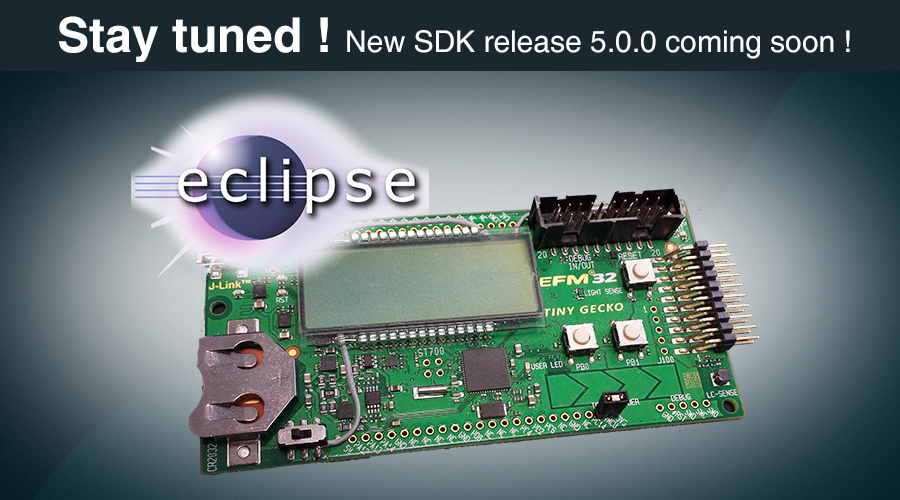
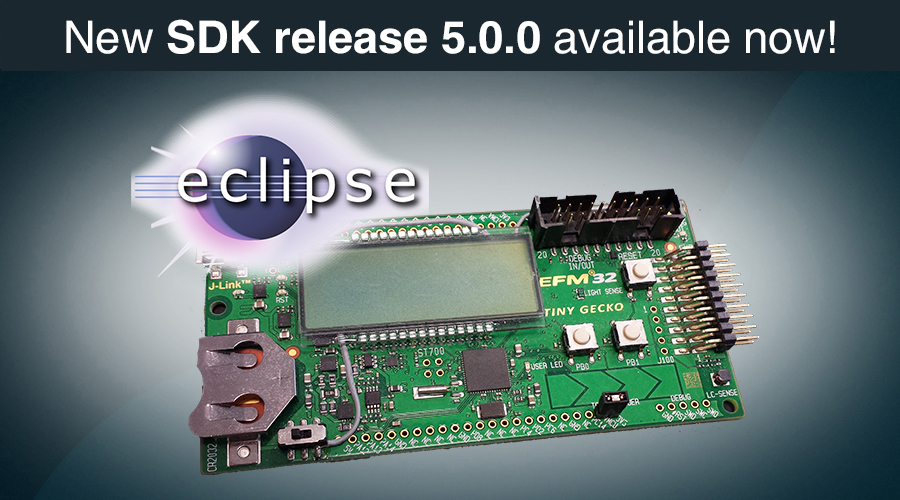
SDK 5.0.0 added

Changed region(s): [[0.0622, 0.03, 0.9644, 0.12]]

diff --git a/index.html b/index.html
@@ -12,18 +12,13 @@ scripts:
             <li data-target="#myCarousel" data-slide-to="0" class="active"></li>
             <li data-target="#myCarousel" data-slide-to="1"></li>
             <li data-target="#myCarousel" data-slide-to="2"></li>
-            <li data-target="#myCarousel" data-slide-to="3"></li>
-<!--            <li data-target="#myCarousel" data-slide-to="3"></li>-->
         </ol>
         <div class="carousel-inner">
-	<div class="item active">
+        	<div class="item active">
                 <img src="../images/carousel-sdk50.jpg" alt="">
-            </div>
-            <div class="item">
-                <img src="../images/carousel-sdk.jpg" alt="">
                 <div class="carousel-caption">
                     <div class="actions text-center">
-                        <a href="/releases/2014/02/25/sdk-400-version-available/index.html"  class="btn btn-large"> New SDK version </a>
+                        <a href="/releases/2014/12/18/sdk-500-version-available/index.html" class="btn btn-primary btn-large"> <i class="icon-large icon-gift"></i> New SDK version <span class="label label-success">New</span> </a>
                     </div>
                 </div>
             </div>
@@ -50,10 +45,10 @@ scripts:
                         TD1204 is the very first SIGFOX™ Gateway Module that integrates a GPS chip and an accelerometer.
                     </p>
                     <div class="actions text-center">
-                        <a href="/cloud-on-chip/td1204/index.html"  class="btn btn-large"><i class="icon-large icon-search"></i> Features <span class="label label-success">New</span> </a>
-                        <a href="/cloud-on-chip/td1204/evb.html"    class="btn btn-success btn-large"><i class="icon-large icon-eye-open"></i> Evaluation Board <span class="label label-success">New</span> </a>
-                        <a href="/cloud-on-chip/td1204/sdk.html"    class="btn btn btn-primary btn-large"><i class="icon-large icon-road"></i> SDK <span class="label label-success">New</span> </a>
-                        <a href="/cloud-on-chip/td1204/download.html"    class="btn btn-warning btn-large"><i class="icon-large icon-download"></i> Resources <span class="label label-success">New</span> </a>
+                        <a href="/cloud-on-chip/td1204/index.html"  class="btn btn-large"><i class="icon-large icon-search"></i> Features </a>
+                        <a href="/cloud-on-chip/td1204/evb.html"    class="btn btn-success btn-large"><i class="icon-large icon-eye-open"></i> Evaluation Board </a>
+                        <a href="/cloud-on-chip/td1204/sdk.html"    class="btn btn btn-primary btn-large"><i class="icon-large icon-road"></i> SDK </a>
+                        <a href="/cloud-on-chip/td1204/download.html"    class="btn btn-warning btn-large"><i class="icon-large icon-download"></i> Resources </a>
                     </div>
                 </div>
             </div>

diff --git a/_posts/2014-12-18-sdk-500-version-available.md b/_posts/2014-12-18-sdk-500-version-available.md
@@ -1,0 +1,42 @@
+---
+layout: post
+title: "SDK 5.0.0 version available"
+tagline: "For developpers"
+description: "A new SDK version made available to you developers"
+category: releases
+tags:
+---
+{% include JB/setup %}
+
+![We are pleased to announce today the release of our new TD RF Module SDK v5.0.0.0!](/images/new_sdk_available_5.0.0.png)
+
+What's new ?
+---
+
+<br/>
+This major version introduces two major new features:
+
+* bidirectional SIGFOX transmission (aka "downlink" mode), that enables a device to receive data from the SIGFOX network
+* SIGFOX proxy capability, both in transparent (i.e. using the device's own ID) or non-transparent (using the proxy's ID)
+
+As usual, this version also provides numerous improvements to the existing API for the TD1204/TD1208 RF modules, while still maintaining backwards compatibility with the existing code. Additions, changes and bug fixes are covered in the detailed release note.
+
+However, compatibility with the lowest end TD1202 RF modules has been frozen to SDK 4.1.0, as it is no longer possible to fit all the newest capabilities into the limited TD1202 Flash and RAM memory capacities. You can find the latest SDK 4.1.0 for the TD1202 [here](https://github.com/Telecom-Design/TD_RF_Module_SDK/tree/v4.1.0).
+
+More examples were added to the previously existing ones, including some examples making use of the new bidirectional capabilities and high-level API for managing buttons with variable press durations and blinking LEDs.
+
+As developers ourselves, except where restricted by patents or non-disclosure agreements, we decided to provide most of the delivered code as source code, allowing developers to understand what is under the hood, modify it, expand it, or simply use it as is with an increased confidence.
+
+We also opted to only use free-of-charge software building tools, and as much as possible FOSS (Free Open-Source Software) tools, as well as a cheap Starter Kit from Silicon Labs/Energy Micro for the hardware program/debug probe, in order to lower the front costs for developments down to the bare minimum.
+
+How to get it ?
+---
+
+<br/>
+1. Download the SDK (about 500 Megs) and <strong> unzip it in C:\ </strong> (that's mandatory) <a href="http://sdktools.s3.amazonaws.com/TD_RF_Module_SDK_Tools-v4.0.0.zip" class="btn btn-info" target="_blank"> <i class="icon-download"> </i> HERE </a>
+2. Get the samples code and the library on our github repo (registered used access) <a href="https://github.com/Telecom-Design/" class="btn btn-warning"> <i class="icon-lock"> </i> HERE </a>
+3. Get the complete documentations and support are available publicly <a href="https://github.com/Telecom-Design/Documentation_TD_RF_Module" target="_blank" class="btn btn-success"> <i class="icon-github"> </i> HERE </a> 
+
+Please take a look at this new TD RF Module SDK, and we hope you will enjoy for developing the next-generation IoT devices based on the SIGFOX technology!
+
+–-The Telecom Design R&D team
